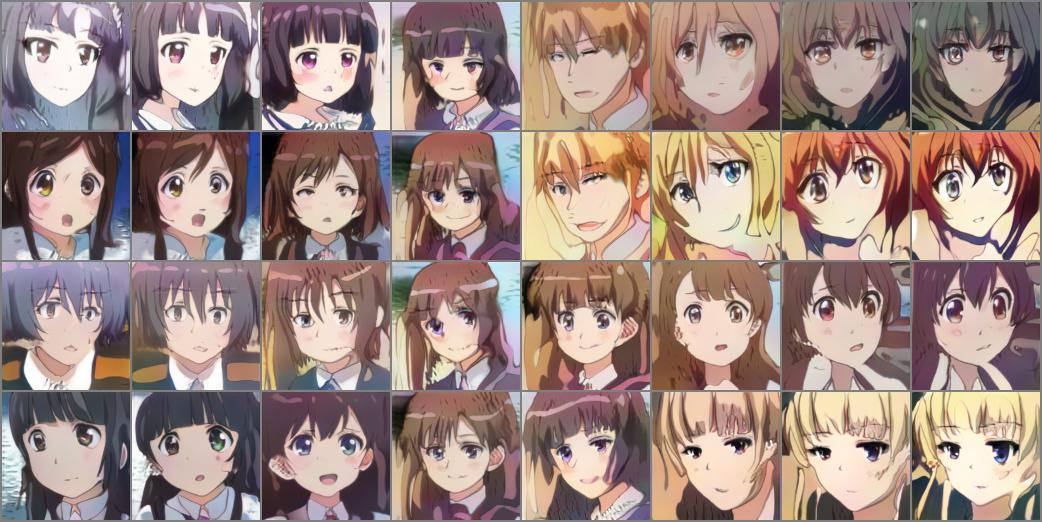
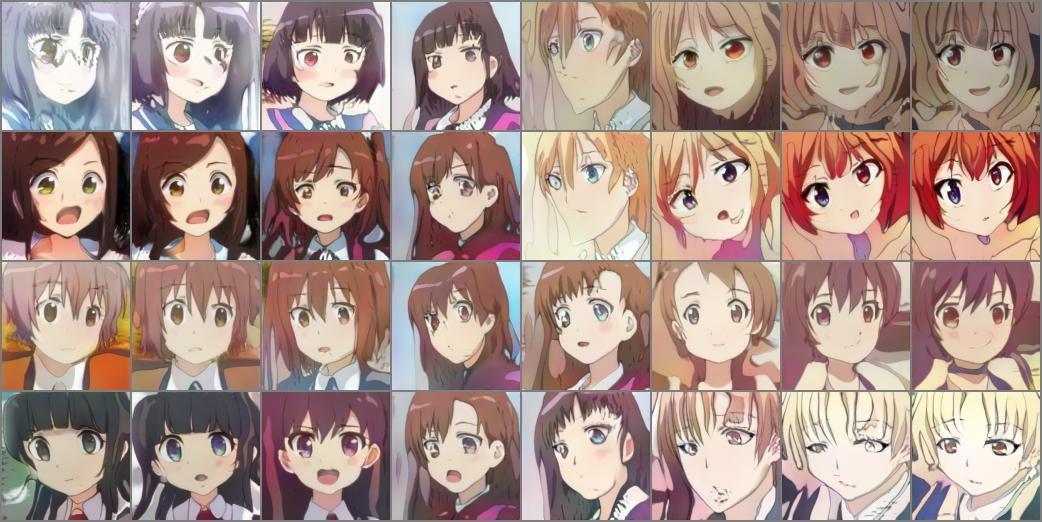
sampling added

diff --git a/sampling.py b/sampling.py
@@ -1,0 +1,117 @@
+import argparse
+import numpy as np
+import torch
+import torch.nn.functional as F
+import torchvision.transforms as T
+import Networkv1
+import Networkv2
+from copy import deepcopy
+from torchvision.utils import make_grid, save_image
+from torch.utils.data import DataLoader
+from torch.distributions import MultivariateNormal
+from torch.nn import Module, DataParallel
+from CustomDataset import TANOCIv2_Dataset
+
+COMPUTE_MEAN_ITER = 1000
+
+if __name__ == '__main__':
+    parser = argparse.ArgumentParser()
+    parser.add_argument('--gen_num', required=True)
+    parser.add_argument('--load_index', required=True)
+    parser.add_argument('--load_path', default='./result')
+    parser.add_argument('--save_path', default='./sample/')
+    parser.add_argument('--psi', default=0.5)
+    parser.add_argument('--version', default=2)
+    parser.add_argument('--device', default='cuda:0')
+    parser.add_argument('--img_level', default=7)
+    parser.add_argument('--batch_size', default=24)
+    parser.add_argument('--z_cov', default=1)
+    parser.add_argument('--interpolate_num', default=8)
+    parser.add_argument('--style_size', default=128)
+    parser.add_argument('--z_size', default=8)
+    parser.add_argument('--texture_size', default=4)
+    parser.add_argument('--gen_channel', default=256)
+    parser.add_argument('--gen_nonlocal_loc', default=-1)
+    parser.add_argument('--disc_first_channel', default=16)
+    parser.add_argument('--disc_last_size', default=4)
+    parser.add_argument('--disc_nonlocal_loc', default=2)
+
+    args = parser.parse_args()
+    gen_num = int(args.gen_num)
+    load_index = int(args.load_index)
+    if load_index <= 0:
+        raise Exception('You have to specify load_index')
+    load_path = str(args.load_path)
+    save_path = str(args.save_path)
+    psi = float(args.psi)
+    version = int(args.version)
+    device = str(args.device)
+
+    img_level = int(args.img_level)
+    img_size = 2**img_level
+    batch_size = int(args.batch_size)
+    z_cov = float(args.z_cov)
+    interpolate_num = int(args.interpolate_num)
+
+    style_size = int(args.style_size)
+    z_size = int(args.z_size)
+    texture_size = int(args.texture_size)
+    gen_channel = int(args.gen_channel)
+    gen_nonlocal_loc = int(args.gen_nonlocal_loc)
+
+    disc_first_channel = int(args.disc_first_channel)
+    disc_last_size = int(args.disc_last_size)
+    disc_nonlocal_loc = int(args.disc_nonlocal_loc)
+
+    if device == 'multi':
+        raise Exception('multi gpu not allowed in sampling!')
+    elif device == 'cpu':
+        use_multi_gpu = False
+    elif 'cuda' in device:
+        use_multi_gpu = False
+    else:
+        raise Exception('invalid argument in device (sampling)')
+
+    S = Networkv1.StyleMapper(z_size, style_size, 0, device)
+    if version == 1:
+        G = Networkv1.Generator(gen_channel, texture_size, style_size, gen_nonlocal_loc, 0, img_size, device)
+    elif version == 2:
+        G = Networkv2.Generator(gen_channel, texture_size, style_size, gen_nonlocal_loc, 0, img_size, device)
+    else:
+        raise Exception('invalid version')
+
+    print('loading', load_index, 'models...')
+    S_load_path = load_path + '_weight/' + str(load_index) + 'S.pt'
+    G_load_path = load_path + '_weight/' + str(load_index) + 'G.pt'
+    S.load_state_dict(torch.load(S_load_path))
+    G.load_state_dict(torch.load(G_load_path))
+    dist = MultivariateNormal(loc=torch.zeros(batch_size, z_size), covariance_matrix=z_cov*torch.eye(z_size))
+    tmp = None
+    for _ in range(COMPUTE_MEAN_ITER):
+        z = dist.sample()
+        if 'cuda' in device:
+            z = z.cuda()
+        w = S(z)
+        if tmp is None:
+            tmp = w
+        else:
+            tmp += w
+    style_mean = torch.mean(tmp, axis=0)/COMPUTE_MEAN_ITER
+    
+    for e in range(gen_num):
+        z = dist.sample()
+        if 'cuda' in device:
+            z = z.cuda()
+        w = S(z)
+        w = style_mean + psi*(w - style_mean)
+        img = G(w).detach()
+        img_save_path = save_path + str(e) + '.jpg'
+        save_image(make_grid(img), img_save_path, normalize=True)
+    
+
+
+
+    
+
+
+
